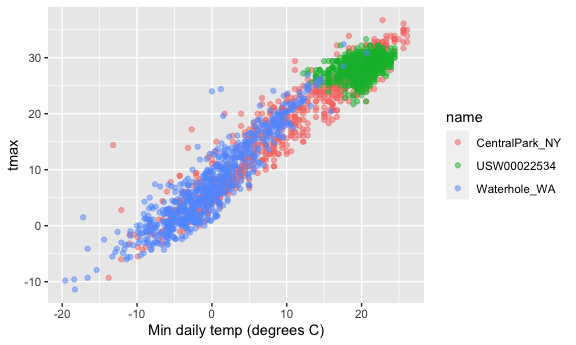
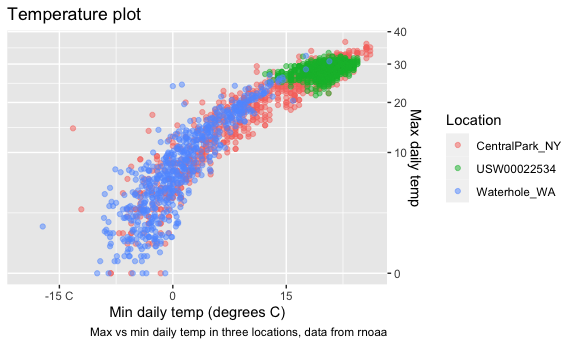
viz 2 - up to scales

diff --git a/viz_part2.md b/viz_part2.md
@@ -71,10 +71,48 @@ weather_df |>
   ggplot(aes(x=tmin, y=tmax, color=name)) +
   geom_point(alpha=0.5) +
   labs(
-    x = "Min daily temp (degrees C)"
+    title = "Temperature plot",
+    x = "Min daily temp (degrees C)",
+    y = "Max daily temp",
+    color = "Location",
+    caption = "Max vs min daily temp in three locations, data from rnoaa"
+  ) +
+  scale_x_continuous(
+    breaks = c(-15, 0, 15),
+    labels = c("-15 C", "0", "15")
+  ) +
+  scale_y_continuous(
+    position = "right",
+    trans = "sqrt"
   )
+```
+
+    ## Warning in self$trans$transform(x): NaNs produced
+
+    ## Warning: Transformation introduced infinite values in continuous y-axis
+
+    ## Warning: Removed 142 rows containing missing values (`geom_point()`).
+
+<img src="viz_part2_files/figure-gfm/unnamed-chunk-3-1.png" width="90%" />
+
+what about colors…
+
+``` r
+weather_df |>
+  ggplot(aes(x=tmin, y=tmax, color=name)) +
+  geom_point(alpha=0.5) +
+  labs(
+    title = "Temperature plot",
+    x = "Min daily temp (degrees C)",
+    y = "Max daily temp",
+    color = "Location",
+    caption = "Max vs min daily temp in three locations, data from rnoaa"
+  ) + 
+  viridis::scale_color_viridis(discrete=TRUE)
 ```
 
     ## Warning: Removed 17 rows containing missing values (`geom_point()`).
 
-<img src="viz_part2_files/figure-gfm/unnamed-chunk-3-1.png" width="90%" />
+<img src="viz_part2_files/figure-gfm/unnamed-chunk-4-1.png" width="90%" />
+
+## Themes
